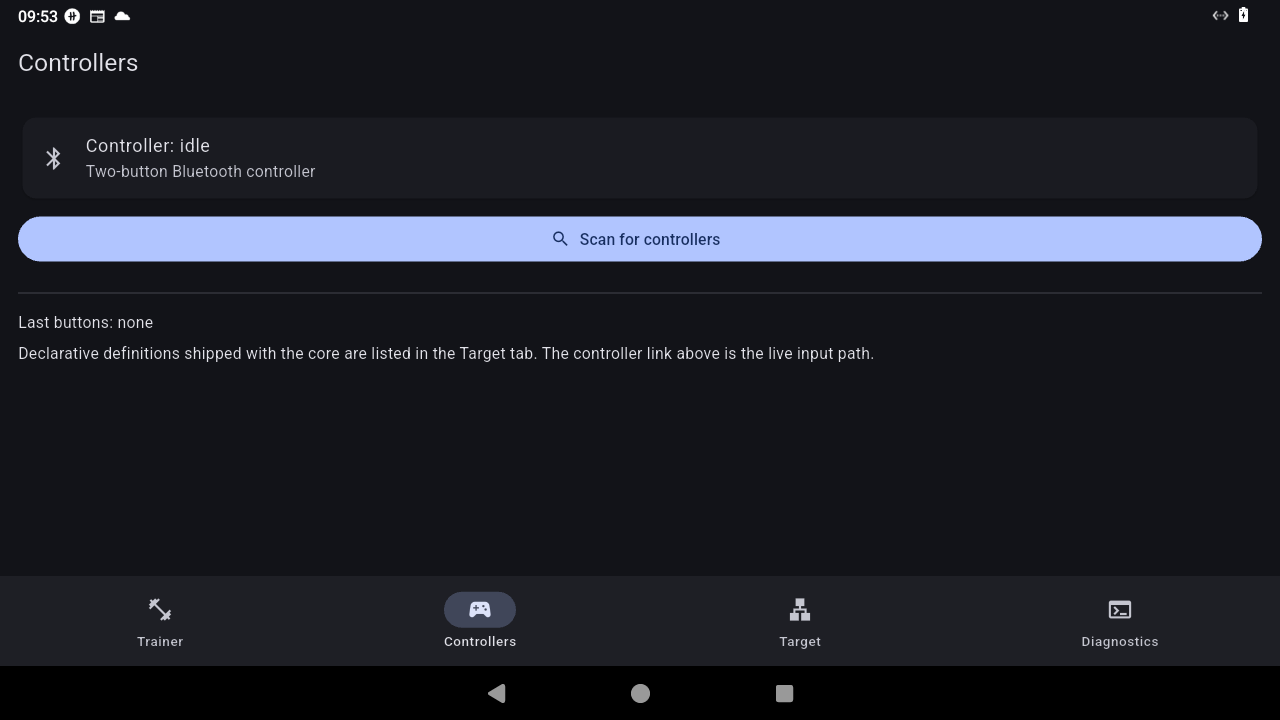
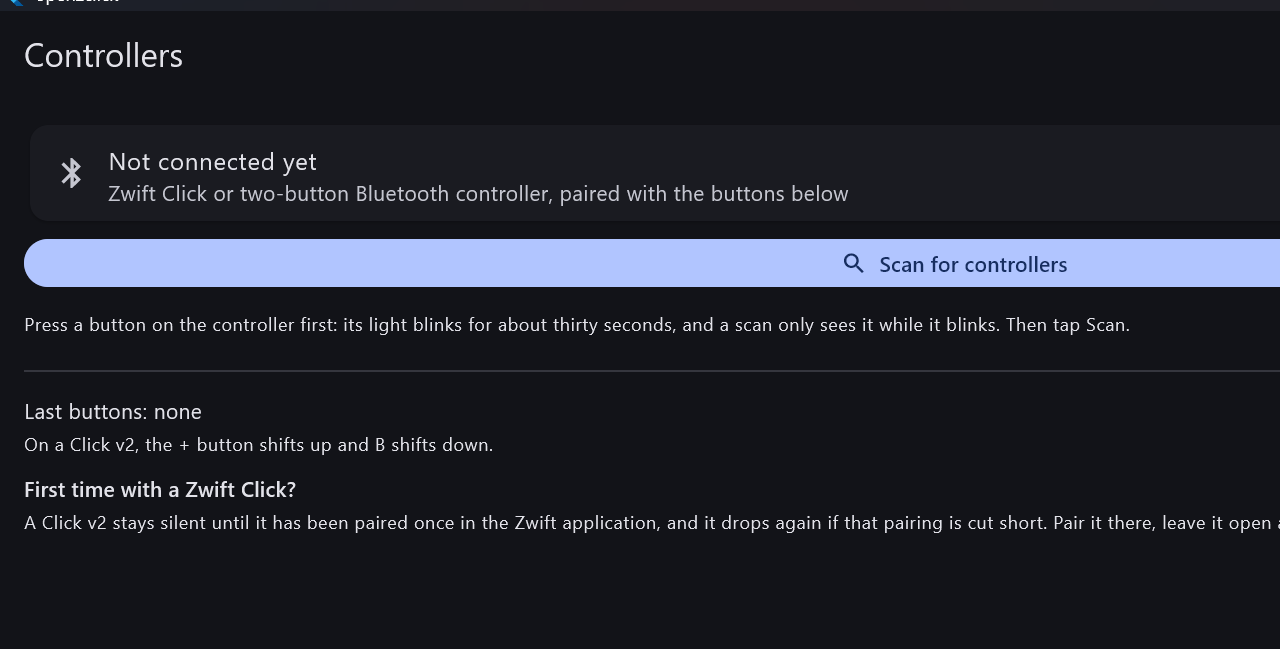
docs(screens): four fresh captures from the Windows build
The published screenshots came from an Android build whose navigation was Trainer, Controllers, Target, Diagnostics. These four are the current application on Windows 11: the four steps, the gears with the chain-setup card, the controllers screen, and the publication with the QR code a phone scans. The old files are deleted rather than left to rot next to the new ones.

diff --git a/README.md b/README.md
@@ -279,13 +279,13 @@ The detailed roadmap, including what is open to a first contribution, lives in [
 
 <div align="center">
 
-| Start | Gears | Network | Injection |
+| Start | Gears | Controllers | Network |
 |---|---|---|---|
-| ![Start](docs/screenshots/trainer.png) | ![Gears](docs/screenshots/controllers.png) | ![Network](docs/screenshots/publish.png) | ![Injection](docs/screenshots/injection.png) |
+| ![Start](docs/screenshots/start.png) | ![Gears](docs/screenshots/gears.png) | ![Controllers](docs/screenshots/controllers.png) | ![Network](docs/screenshots/network.png) |
 
 </div>
 
-These four were captured on Android from an earlier build, before the navigation became *Start · Gears · Controllers · Network*; the screens themselves are the same. They are the next thing to refresh, along with a Windows capture of a Click v2 connected.
+Captured on Windows 11 from the current build: the four steps, the gear with its chain-setup card, the controller screen, and the publication with the QR code a phone scans to become the console. The **Controllers** shot shows the state before pairing, which is the honest one to publish: a connected Click v2 is the same screen with a green icon, the session type and the battery percentage.
 
 ## Contributing
 
